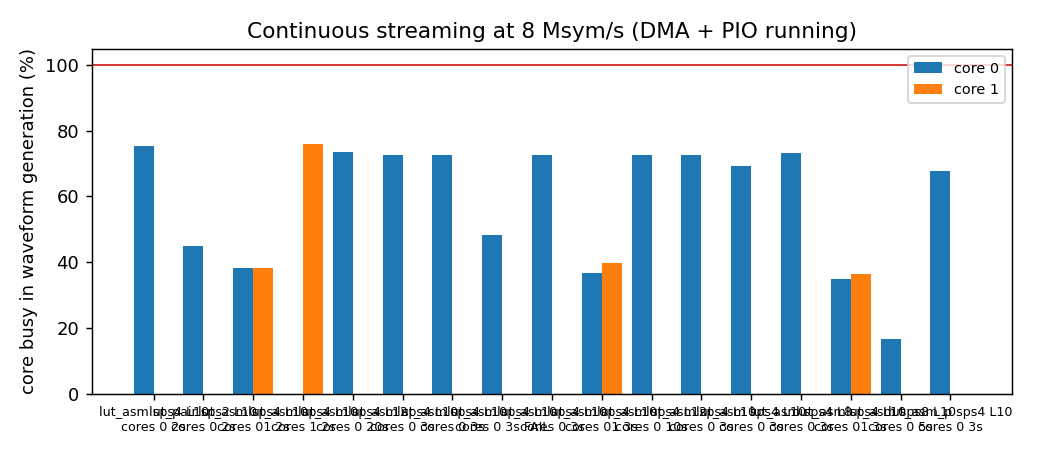
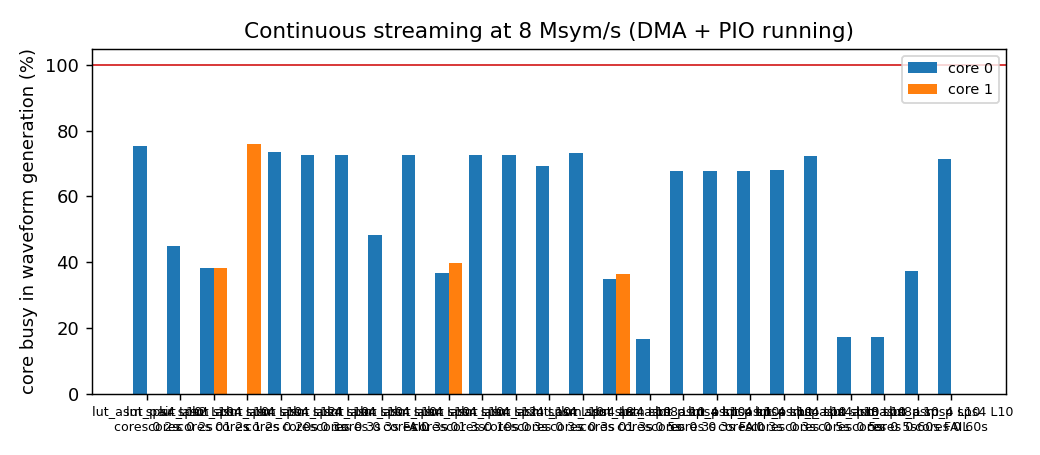
README: full transmitter results and optimization tables

Changed region(s): [[0.0923, 0.3077, 0.9846, 0.9538], [0.2154, 0.0308, 0.8308, 0.0923], [0.8615, 0.0923, 0.9846, 0.8615]]

diff --git a/host/plot_progress.py b/host/plot_progress.py
@@ -72,9 +72,67 @@ def stream_load(rows):
     fig.savefig(PLOTS / "progress_streaming.png", dpi=130)
 
 
+def dvbs2_progress(rows):
+    """Per-frame encoder cycles for normal QPSK 2/3 + pilots, one bar per logged optimization step."""
+    recs = [r for r in rows if r["cmd"] == "dvbs2" and r["code"] == "normal 2/3" and r["crc_ok"]]
+    if not recs:
+        return
+    steps = OrderedDict()
+    for r in recs:
+        steps[(r.get("note") or "").split(":")[0]] = r      # last record per step
+    labels = list(steps)
+    bch = [steps[k]["cyc_bch"] / 1e3 for k in labels]
+    ldpc = [steps[k]["cyc_ldpc"] / 1e3 for k in labels]
+    rest = [steps[k]["cyc_frame"] / 1e3 - b - l for k, b, l in zip(labels, bch, ldpc)]
+    clk, syms = recs[-1]["clk_hz"], recs[-1]["syms"]
+    budget = clk * syms / RS / 1e3                          # one core at 8 Msym/s, k cycles/frame
+    fig, ax = plt.subplots(figsize=(8, 4))
+    x = range(len(labels))
+    ax.bar(x, bch, label="BCH")
+    ax.bar(x, ldpc, bottom=bch, label="LDPC")
+    ax.bar(x, rest, bottom=[b + l for b, l in zip(bch, ldpc)], label="scramble, map, PL framing")
+    for i, k in enumerate(labels):
+        ax.text(i, steps[k]["cyc_frame"] / 1e3, f"{steps[k]['cyc_frame'] / 1e3:.0f}k", ha="center",
+                va="bottom", fontsize=8)
+    ax.axhline(budget, color="C3", lw=1)
+    ax.text(len(labels) - 0.5, budget, f" 1 core @ 8 Msym/s = {budget:.0f}k", color="C3",
+            ha="right", va="bottom", fontsize=8)
+    ax.set_xticks(list(x), labels, fontsize=8)
+    ax.set(ylabel="cycles per PLFRAME (thousands)",
+           title=f"DVB-S2 encoder on RP2350, normal QPSK 2/3 + pilots, {clk / 1e6:.0f} MHz")
+    ax.legend(fontsize=8)
+    fig.tight_layout()
+    fig.savefig(PLOTS / "progress_dvbs2.png", dpi=130)
+
+
+def full_tx(rows):
+    recs = [r for r in rows if r["cmd"] == "stream" and "s2_code" in r and r.get("cap_mismatches") == 0
+            and r["underruns"] == 0]
+    if not recs:
+        return
+    latest = OrderedDict()
+    for r in recs:
+        latest[(r["s2_code"], round(r["sym_rate"]), r["sps"])] = r
+    fig, ax = plt.subplots(figsize=(7, 3.5))
+    labels = [f"{c}\n{rate / 1e6:g} Msym/s, N={sps}" for c, rate, sps in latest]
+    enc = [r["s2_busy"] * 100 for r in latest.values()]
+    shp = [r["core"][0]["busy"] * 100 for r in latest.values()]
+    x = range(len(labels))
+    ax.bar([i - 0.2 for i in x], shp, 0.4, label="core 0: shaper + DMA/PIO")
+    ax.bar([i + 0.2 for i in x], enc, 0.4, label="core 1: DVB-S2 encoder")
+    ax.axhline(100, color="C3", lw=1)
+    ax.set_xticks(list(x), labels, fontsize=8)
+    ax.set(ylabel="core busy (%)", title="Full on-chip DVB-S2 transmitter (measured, capture exact)")
+    ax.legend(fontsize=8)
+    fig.tight_layout()
+    fig.savefig(PLOTS / "progress_full_tx.png", dpi=130)
+
+
 if __name__ == "__main__":
     PLOTS.mkdir(parents=True, exist_ok=True)
     rows = load()
     kernel_progress(rows)
     stream_load(rows)
+    dvbs2_progress(rows)
+    full_tx(rows)
     print(f"{len(rows)} log records -> {PLOTS.relative_to(ROOT)}")

diff --git a/hardware/devboard/README.md b/hardware/devboard/README.md
@@ -10,8 +10,8 @@ marked.
 |---|---|---|
 | G1 | Kernel ≤ 75 % of one core at 8 Msym/s, N = 4, bit-exact | **passed**: 11.55 cyc/sym, 72 % (log `lut_asm`) |
 | G2 | Continuous DMA/PIO output, 0 underruns, pin capture exact | **passed**: 20 s, 156 249 blocks |
-| G3 | Concurrent 16 Mb/s input (PIO receiver + DMA) with G2 still clean | pending (stage 4) |
-| G4 | DVB-S2 encode on-chip at the target rate, bit-exact vs reference | pending |
+| G3 | Concurrent 16 Mb/s input (PIO receiver + DMA) with G2 still clean | **passed** (on-chip loopback emulator; real host pending) |
+| G4 | DVB-S2 encode on-chip at the target rate, bit-exact vs reference | **passed**: 8 Msym/s, 2 cores at 70/72 %, 60 s |
 | G5 | Logic-analyzer check of setup/hold and CLK_IO at the header, 64 MW/s | pending (needs equipment) |
 | G6 | AFE7071 bring-up on a breakout: spectrum, images, LO leakage after QMC | pending (needs RF bench) |
 
